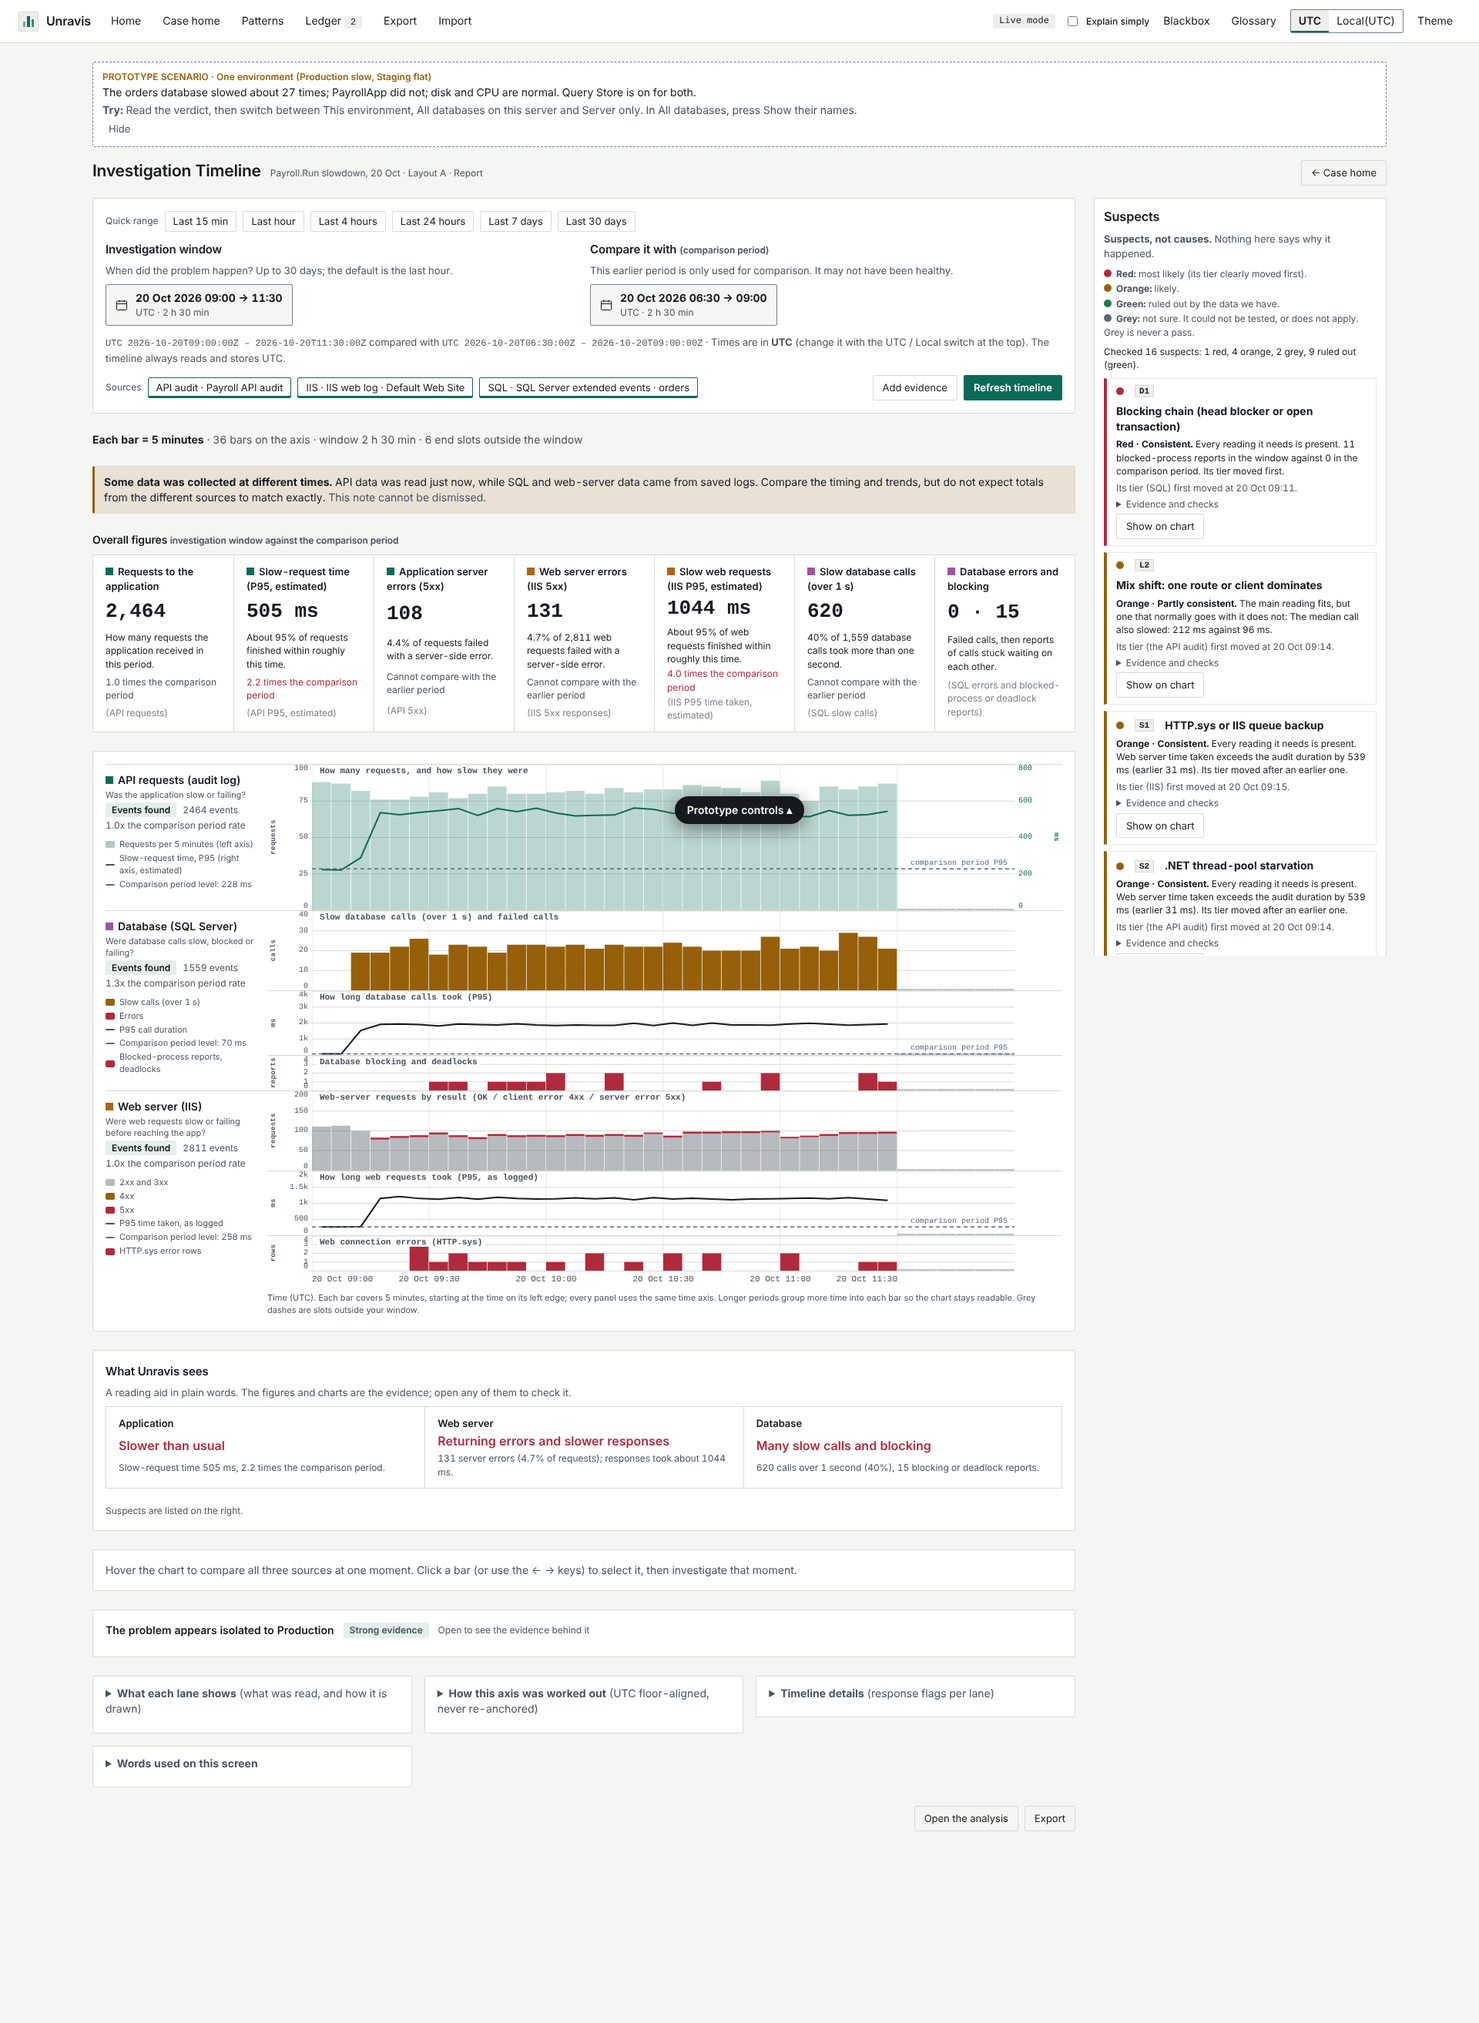
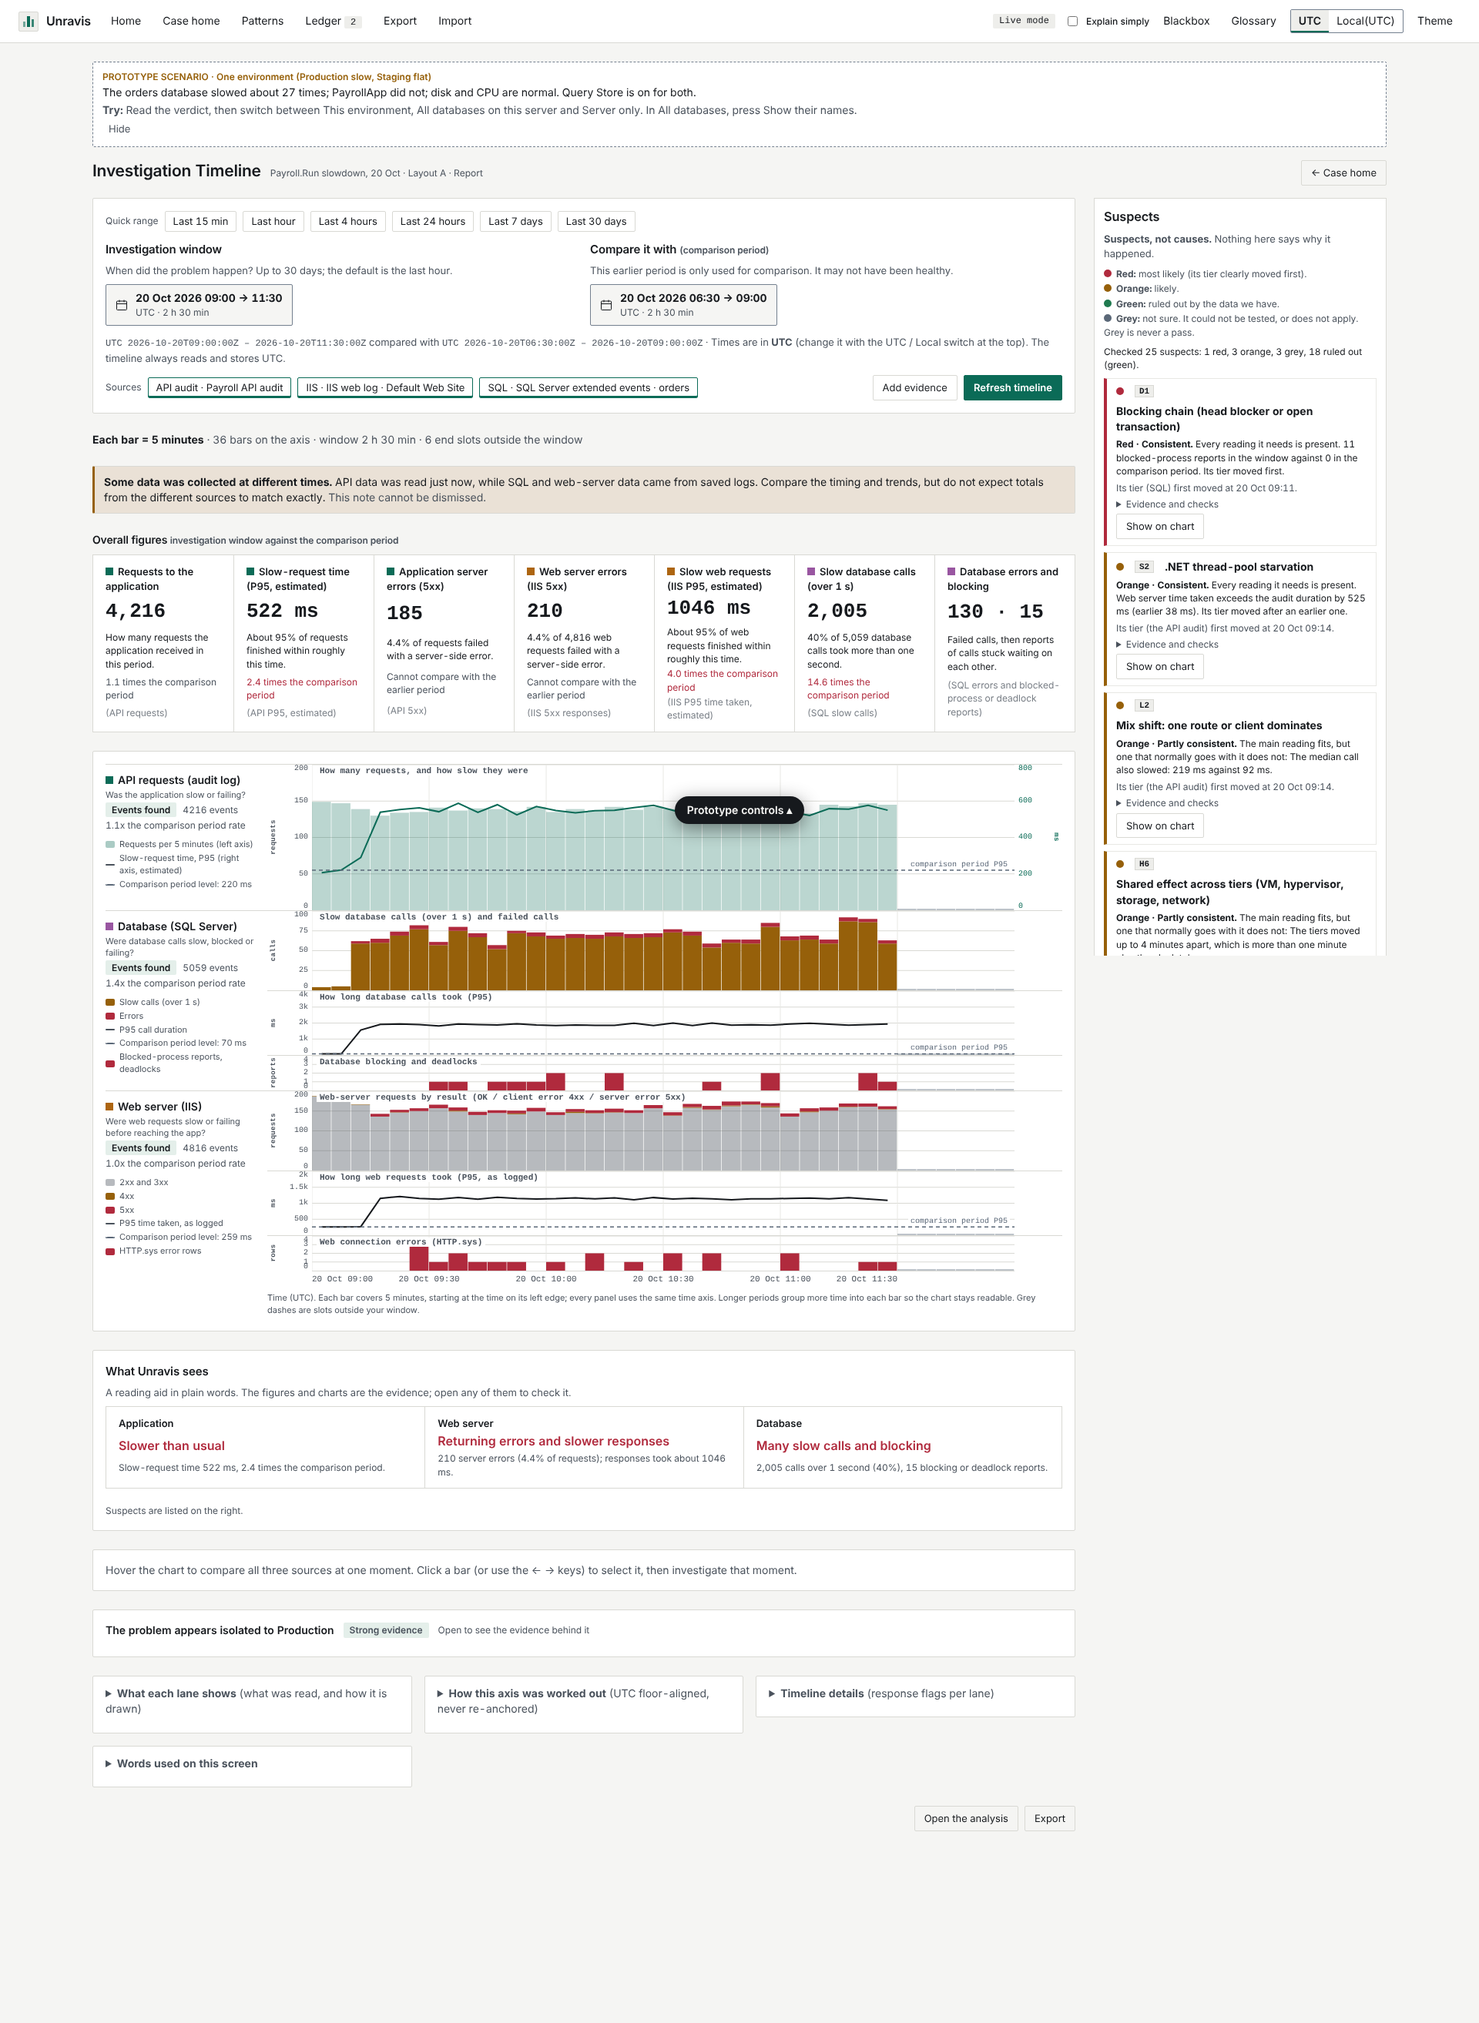
Prototype: 25 suspects from research, top five with See all, auto-run on open
Merged rules agent and rail agent; explainer and coverage updated; corrected the
catalog size (44 entries, 42 active suspects). flow-check: 214 pass.

Claude-Session: https://claude.ai/code/session_01BUytozocgnrWPT9uUCHJxQ

diff --git a/prototype/TRACING-SCREEN-EXPLAINER.md b/prototype/TRACING-SCREEN-EXPLAINER.md
@@ -120,11 +120,11 @@ A card above the figures that reads the same data in plain words (observation, m
 ### 3c. Suspects rail (right side, new)
 A slim sticky rail (about 380 px) beside the charts. **It is the existing guided-analysis suspect engine's idea**: `internal/investigate` (catalog, signals, colours). The prototype re-implements 16 of its suspects deterministically over the demo data; there is no AI anywhere. [Spec: guided-analysis, `catalog.go`, `evaluate.go`]
 - **Colours (the app's own words):** Red = most likely (its tier moved first, clearly: more than 61 seconds before any other tier); Orange = likely; Green = ruled out by the data we have; Grey = not sure (could not be tested, or does not apply; grey is never a pass).
-- **Loads by itself** when the timeline appears: "Checking 16 suspects… 6 of 16", one suspect revealed about every 140 ms, then a summary ("Checked 16 suspects: 1 red, 4 orange, 2 grey, 9 ruled out"). Re-rendering never restarts it.
-- **List order:** red, orange, grey; green suspects are folded under "Ruled out by the data".
+- **Loads by itself** when the timeline appears (the timeline itself now runs automatically when the screen opens; **Refresh timeline** re-runs it): "Checking 25 suspects… 6 of 16", one suspect revealed about every 140 ms, then a summary ("Checked 16 suspects: 1 red, 4 orange, 2 grey, 9 ruled out"). Re-rendering never restarts it.
+- **Default view = the top five:** every red, then the best orange, then grey until five are shown. **See all (N)** expands in place; green suspects are folded under "Ruled out by the data". Q1 (clock) and Q2 (audit coverage) are pinned above the five as a "Data check" while they are not green.
 - **Each card:** colour dot with the colour word, id badge (for example D1), title, one-sentence reading, expandable evidence rows (signal, Must/Expect, yes/no/unknown, why), cheapest check, what would overturn it, and for grey a "Needs" line. **Show on chart** selects the bucket where that suspect's tier first moved.
 - **Suspects, not causes.** The header says so; nothing in the rail states why anything happened.
-- **Suspects in the prototype (16 of the catalog's 54):** Q2 audit coverage, L1 traffic surge, L2 mix shift, S1 HTTP.sys/IIS queue backup, S2 thread-pool starvation, S5 audit-write coupling, D1 blocking chain, D2 deadlock storm, D6 memory pressure, D9 disk latency, D10 CPU saturation, M5 Mongo ticket/lock queue, M10 shared mongod, H1 host CPU, H6 shared effect across tiers, C1 change (grey until a change list is typed in).
+- **Suspects in the prototype (25 of the catalog's 42 active suspects, plus the research's new ones):** the first 16: Q2 audit coverage, L1 traffic surge, L2 mix shift, S1 HTTP.sys/IIS queue backup, S2 thread-pool starvation, S5 audit-write coupling, D1 blocking chain, D2 deadlock storm, D6 memory pressure, D9 disk latency, D10 SQL scheduler pressure, M5 Mongo ticket/lock queue, M10 shared mongod, H1 host CPU, H6 shared effect across tiers, C1 change (grey until a change list is typed in). Nine new ones from the research report: S8 payload capture slowdown, S9 IIS request-filtering rejection, S10 app pool unavailable, S11 HTTP.sys receive timeout, S12 slow client/proxy response drain, D16 SQL command timeout burst, D17 SQL login storm, M11 Mongo spill to disk, M12 Mongo connection rejection. Each new one has a "What if" switch in the prototype dock so you can see it turn orange or red. M13 (plan-cache-key regression) is deferred one release.
 - **Rules:** a signal is yes, no or unknown. Unknown is never a pass: no data, a withheld comparison, no sampler or Mongo profiler off makes the signal unknown and the suspect grey with its Needs line. Thresholds are the engine's: a change counts at 30% and 100 ms or more; onset = P95 above 2 times the comparison for 5 minutes in a row.
 - **Demo outcomes by prepared situation:** one environment: D1 blocking chain is red; whole server: D6, D9 and D10 are red; noisy neighbour: D9 red, M10 orange; no history: nothing is red, mostly grey.
 - **Layout:** the rail appears only after the timeline has been shown. Under 1180 px it moves below the chart.
@@ -208,21 +208,21 @@ Use prototype panel → **"The slowdown, with a real comparison"**, then Show ti
 |---|---|
 | Bar size / count | 5 minutes, 36 bars (6 end slots outside the window) |
 | Warnings | none (windows touch but do not overlap) |
-| API requests | 2,464 (1.0x the comparison rate) |
-| API P95 | 505 ms, **2.2x** the comparison period's 228 ms (shown red) |
-| API 5xx | 108 = 4.4% of requests (the earlier period had none, so no comparison) |
-| IIS 5xx | 131 = 4.7% of 2,811 requests; "Cannot compare" (the earlier period had none) |
-| IIS P95 time taken | 1,044 ms, 4.0 times the comparison period |
-| SQL slow calls | 620 = 40% of 1,559 calls over 1 s; "Cannot compare" (none in the earlier period) |
-| SQL errors · blocking | 0 · 15 |
+| API requests | 4,216 (1.1 times the comparison rate) |
+| API P95 | 522 ms, **2.4 times** the comparison period (shown red) |
+| API 5xx | 185 = 4.4% of requests (the earlier period had none, so no comparison) |
+| IIS 5xx | 210 = 4.4% of 4,816 requests; "Cannot compare" (the earlier period had none) |
+| IIS P95 time taken | 1,046 ms, 4.0 times the comparison period |
+| SQL slow calls | 2,005 = 40% of 5,059 calls over 1 s, 14.6 times the comparison period |
+| SQL errors · blocking | 130 · 15 |
 | Why some cards say "Cannot compare" | a count that was zero in the earlier period has no ratio; the SQL and IIS files now start at 06:00, so the whole comparison period is covered |
 
 **How to read it:** the API doubled its P95 while request volume stayed the same; the web server returned more 5xx and slower responses; SQL shows a large share of slow calls and 15 blocking/deadlock reports. All three lanes bend at **09:14**. The only lane with a usable comparison is API audit, because it keeps data from 13 Oct.
 
-**Where does the evidence point?** **"The problem appears isolated to Production"** (`orders ×25.1`; `PayrollApp` flat; disk 4.9 ms and CPU 45% not saturated). See §8.
+**Where does the evidence point?** **"The problem appears isolated to Production"** (`orders` about 25 times slower; `PayrollApp` flat; disk 4.9 ms and CPU 45% not saturated). See §8.
 
 ### 6.2 The default window (what a user sees first)
-Last hour (11:00–12:00) vs 10:00–11:00. 60 one-minute bars. API 1,042 requests, P95 367 ms (0.7x). IIS 5xx 28 (0.5x). SQL slow calls 140 (0.5x). Ratios are **below 1** because the comparison hour was itself inside the slowdown (it ended 11:30). This is a good teaching moment: **the comparison period is only a comparison, not a baseline**.
+Last hour (11:00–12:00) vs 10:00–11:00. 60 one-minute bars. API 1,779 requests, P95 389 ms (0.7 times). IIS 5xx 47 (0.5 times). SQL slow calls 474 (0.6 times). Ratios are **below 1** because the comparison hour was itself inside the slowdown (it ended 11:30). This is a good teaching moment: **the comparison period is only a comparison, not a baseline**.
 
 ### 6.3 Seven days (13 Oct 12:00 → 20 Oct 12:00)
 Bars are 2 hours, 84 on the axis. API audit shows the daily rhythm and a hatched sliver for the 19 Oct outage. SQL and IIS show **"No logs for this time, 13 Oct 12:00 → 20 Oct 06:00, 6 d 18 h"** and only the last six hours drawn. Most of those lanes' window is a gap, stated in each lane label.
@@ -303,8 +303,8 @@ Saturated means **disk latency ≥ 15 ms** (Microsoft: sustained 10–15 ms is a
 Fixed since the first version of this document: API 5xx shown as 0 (the demo now shows 108 5xx against IIS's 132); P95 presented as exact (now "estimated"); attribution numbers disagreeing with the lane figures (one evidence model for the SQL database with stored events); server counters without a source; "Provable" wording; the misleading "Scope" label; zero events drawn like missing data; large hatched areas on long windows; hand-off landing on a refusal.
 
 Still open, please test:
-0. **The suspects are a subset.** 16 of the app's 54 catalog entries; IIS-only and cross-source rules are thin (see the research prompt for deterministic rules). [Owner]
-0b. **The timeline is shown only after pressing Show timeline**, so the rail also waits for that press. Open question: run it automatically when the screen opens. [Owner]
+0. **The suspects are a subset.** 25 of the engine's catalog (44 entries: 42 active suspects plus two marked not applicable in production). The research report also recommends strengthening D3, D8, D13, D15, S7 and M9 and fixing three overclaiming titles; those are not yet in the prototype. [Research]
+0b. **Auto-run on open** follows the research recommendation (evaluation of imported evidence is read-only and deterministic). It never imports, pulls from a server or changes the case, and stays off when a window was changed by hand. Not yet confirmed by the owner. [Research]
 0c. **The demo world was changed so a lane can move first** (SQL 3 minutes before the audit). That is a demo choice, not a finding. [Code]
 1. **Estimated P95** is still a call-weighted mean of per-minute P95s in the prototype; only the label changed. [Code]
 2. **The comparison period is not a baseline.** In the default window both periods overlap the slowdown, so ratios below 1 read as "improvement". [Code]
@@ -346,7 +346,7 @@ Recording notes: use a 1440x900 window; hide the bottom dock ("Hide"); load situ
 | 8 | Where does the evidence point? (1:00) | Load each situation: One environment → Whole server → Noisy neighbour → Nothing kept | "One server can host several environments. This card says where the evidence points: one environment, the whole server, or a neighbouring database, how strong that evidence is, and when there isn't enough, what to switch on." Show the **Other databases** row staying unnamed until you ask. |
 | 9 | Close (0:20) | Open the collapsed details; show **Export** | "Everything here is prototype data. Open the details to see how the axis was worked out and what each lane read." |
 
-**Fact sheet for narration (verified in the prototype):** 2,464 API requests; API P95 (estimated) 505 ms vs 228 ms (2.2 times); API 5xx 108 (4.4%); IIS 5xx 131 (4.7% of 2,811); IIS P95 1,044 ms (4.0 times); SQL slow calls 620 (40% of 1,559); suspects rail: D1 blocking chain red; blocking/deadlock reports 15; slowdown 09:14–11:30; reading aid: Application slower than usual, Web server returning errors, Database many slow calls and blocking; evidence points to "The problem appears isolated to Production" (`orders` ×25.1), Strong evidence.
+**Fact sheet for narration (verified in the prototype):** 4,216 API requests; API P95 (estimated) 522 ms (2.4 times the comparison period); API 5xx 185 (4.4%); IIS 5xx 210 (4.4% of 4,816); IIS P95 1,046 ms (4.0 times); SQL slow calls 2,005 (40% of 5,059); suspects rail: D1 blocking chain red; blocking/deadlock reports 15; slowdown 09:14–11:30; reading aid: Application slower than usual, Web server returning errors, Database many slow calls and blocking; evidence points to "The problem appears isolated to Production" (`orders` ×25.1), Strong evidence.
 
 ## 14. Reproduce the screens
 

diff --git a/prototype/FLOW-COVERAGE.md b/prototype/FLOW-COVERAGE.md
@@ -136,7 +136,7 @@ Fidelity: **Full** = layout order, labels, validation and outcomes reproduced; *
 | 64h | **Equal timeline for every lane**: each lane is plotted across the whole window; time with no log data (before a file starts, after it ends, an audit recording outage) is a labelled hatched gap with its exact range and length, and the tooltip says "no log data for this time"; a lane with no file is a hatched band across the same timeline | owner feedback | tracing | `auditGaps`, `gapIv`, `panelSVG`, `chartHTML` | MVP-1 | Gaps are computed from stored import ranges (SQL, IIS) and the audit source's recording history. |
 | 64i | **Review fixes** (external design review): plain-English labels with spec terms in brackets; "What Unravis sees" reading aid (layer tiles, where the evidence points, strength, next step button); evidence-strength wording instead of "Provable"; "Where does the evidence point?" with "View evidence for"; one evidence model for the stored-SQL database; server counters carry a Source line; zero events drawn as a real zero (hatching only for unknown); long gaps collapse with Show all panels; P95 labelled estimated; audit 5xx now rises with the slowdown; hand-off moves the comparison period so Run analysis does not refuse; Open the analysis off above 7 days | `unravis-tracing-wireframe-review.md` | tracing | `traceSeen`, `layerRead`, `attrVerdict`, `fixRefForAnalysis`, `chartHTML` | MVP-1 | Not applied: Workbench as default layout (unvalidated); full renames of "incident window" and "API audit" (kept in brackets). |
 | 64j | **Renamed: Tracing → Investigation Timeline** (buttons: Open the Investigation Timeline, Show timeline, Refresh timeline; Timeline details); **incident window → Investigation window** on the timeline screen only | research report; `NAMING-DECISION.md` | case home, screen | UI strings only | MVP-1 | Specs still say "tracing"; route and function names unchanged; owner confirmation pending. |
-| 64k | **Wider, calmer layout and Suspects rail**: content up to ~1700 px, one controls card, folded evidence card, one detail row; right rail with deterministic suspects (red / orange / grey on top, green folded), loads by itself | owner feedback; guided analysis engine `internal/investigate` (`catalog.go`, `evaluate.go`) | timeline | `suspectsRail`, `evaluateSuspects`, `.trgrid` | MVP-1 | 16 of 54 catalog suspects; demo world changed (SQL leads by 3 min, SQL/IIS files from 06:00). |
+| 64k | **Wider, calmer layout and Suspects rail**: content up to ~1700 px, one controls card, folded evidence card, one detail row; right rail with deterministic suspects (red / orange / grey on top, green folded), loads by itself | owner feedback; guided analysis engine `internal/investigate` (`catalog.go`, `evaluate.go`) | timeline | `suspectsRail`, `evaluateSuspects`, `.trgrid` | MVP-1 | 25 suspects (16 from the guided catalog, 9 new from the research report); demo world changed (SQL leads by 3 min, SQL/IIS files from 06:00, traffic volume raised so 20-sample minimums hold); top five by default with See all; the timeline auto-runs on open. |
 | 64g | Window cards aligned (incident and reference pickers on one line) | owner feedback | tracing | `.winpair` | — | — |
 | 64 | Not shown (Later): route filter, persisted trace window, win32 series, call-trace deep link, delta overlay | TR-14, TR-17, D-11, D-12 | — | — | Later | Intentionally absent. |
 
@@ -160,7 +160,7 @@ Fidelity: **Full** = layout order, labels, validation and outcomes reproduced; *
 
 ## Verification
 
-`node prototype/flow-check.cjs [screenshot-dir]` drives the prototype in Chromium: 193 checks covering all three start-card journeys, code and restore validation, the create guide (validation, Back/Next, leave, failed source, retry), protected-case unlock, closed/archived/legacy/failed-load states, tracing → analysis → evidence → record → back with both windows preserved, both window rules, export 409, launch conditions, MVP-2 pulls, keyboard on the chart, browser Back/Forward and narrow layouts, and (section K) one connection with several databases, the four verdicts, unnamed neighbours, no-history, the MongoDB block and the case-home Databases block. Results are in the commit message and the final report.
+`node prototype/flow-check.cjs [screenshot-dir]` drives the prototype in Chromium: 214 checks covering all three start-card journeys, code and restore validation, the create guide (validation, Back/Next, leave, failed source, retry), protected-case unlock, closed/archived/legacy/failed-load states, tracing → analysis → evidence → record → back with both windows preserved, both window rules, export 409, launch conditions, MVP-2 pulls, keyboard on the chart, browser Back/Forward and narrow layouts, and (section K) one connection with several databases, the four verdicts, unnamed neighbours, no-history, the MongoDB block and the case-home Databases block. Results are in the commit message and the final report.
 
 ## Lane chart research (what each lane captures and how it is drawn)
 
